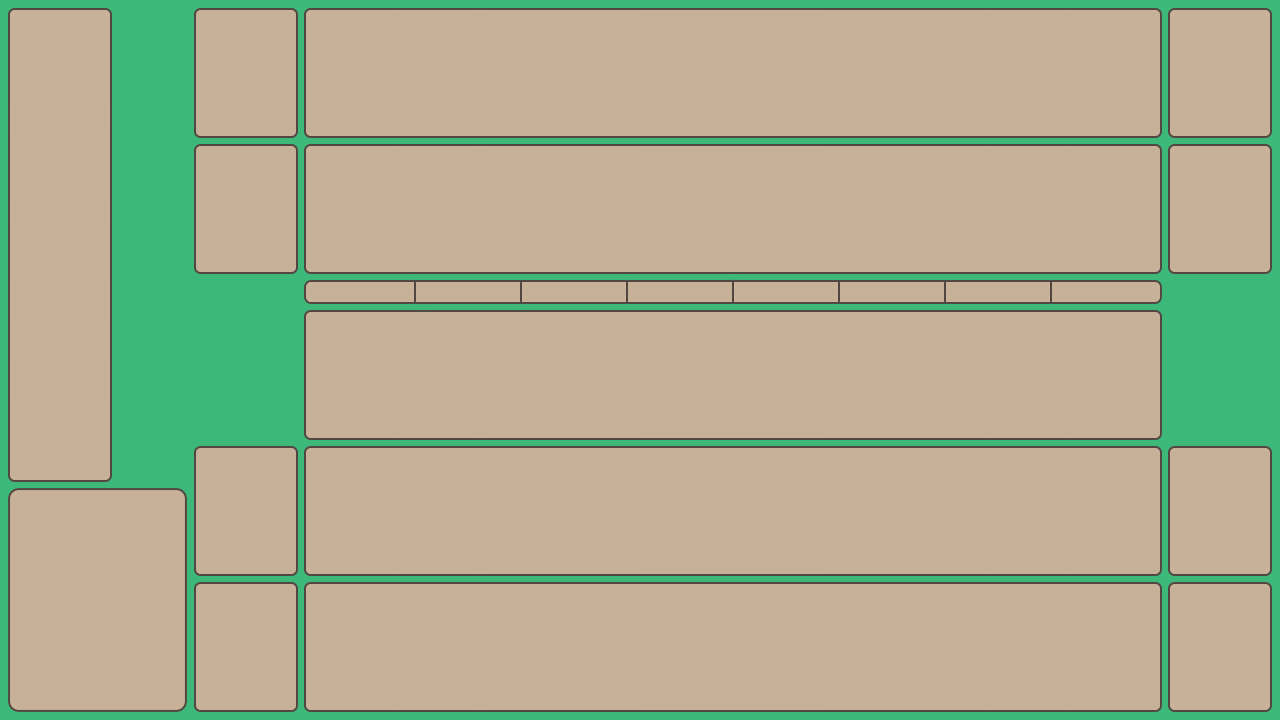
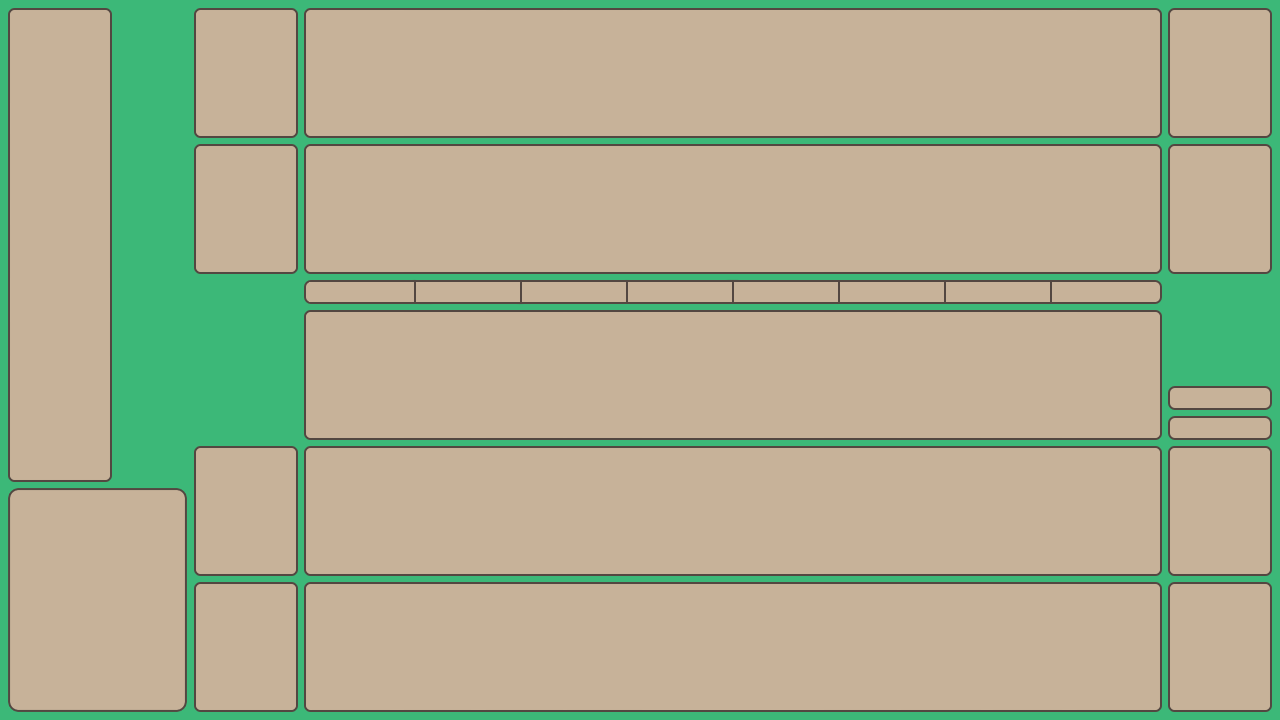
More UI work.

Changed region(s): [[0.9062, 0.5194, 1.0, 0.6111]]

diff --git a/WizardWars/UI/Controls/TextBox.cs b/WizardWars/UI/Controls/TextBox.cs
@@ -1,6 +1,4 @@
-using System;
-using System.Text;
-using System.Drawing;
+using System.Drawing;
 using OpenTK;
 using OpenTK.Graphics;
 using Minalear;
@@ -11,18 +9,20 @@ namespace WizardWars.UI.Controls
     {
         private string text;
         
-        private Texture2D texture;
-        private Font font;
+        protected Texture2D texture;
+        protected Font font;
+        protected Color4 textColor;
 
         public TextBox(Control parent, string text)
             : base(parent)
         {
             this.text = text;
+            textColor = Color4.Black;
         }
 
         public override void Draw(GameTime gameTime, TextureRenderer renderer)
         {
-            renderer.Draw(texture, Position, Vector2.One, Color4.Black);
+            renderer.Draw(texture, Position, Size, textColor);
         }
 
         public override void LoadContent()
@@ -42,7 +42,7 @@ namespace WizardWars.UI.Controls
             initGLTexture();
         }
 
-        private void initGLTexture()
+        protected void initGLTexture()
         {
             Size size = calculateTextSize();
             Bitmap bmp = new Bitmap(size.Width, size.Height);
@@ -52,17 +52,26 @@ namespace WizardWars.UI.Controls
             this.Size = new Vector2(size.Width, size.Height);
 
             graphics.Clear(Color.Transparent);
-            graphics.DrawString(text, font, Brushes.Black, 0f, 0f);
+            graphics.DrawString(text, font, Brushes.White, 0f, 0f);
 
             System.Drawing.Imaging.BitmapData data = bmp.LockBits(
                 new Rectangle(0, 0, bmp.Width, bmp.Height),
                 System.Drawing.Imaging.ImageLockMode.ReadOnly,
                 System.Drawing.Imaging.PixelFormat.Format32bppArgb);
 
-            if (texture != null)
+            if (texture == null)
+            {
+                texture = new Texture2D(bmp.Width, bmp.Height, data.Scan0);
+            }
+            else if (texture.Width != bmp.Width || texture.Height != bmp.Height)
+            {
                 texture.Dispose();
-
-            texture = new Texture2D(bmp.Width, bmp.Height, data.Scan0);
+                texture = new Texture2D(bmp.Width, bmp.Height, data.Scan0);
+            }
+            else
+            {
+                texture.UpdateTexture(data.Scan0);
+            }
 
             bmp.UnlockBits(data);
 

diff --git a/WizardWars/Core/MainGame.cs b/WizardWars/Core/MainGame.cs
@@ -24,21 +24,17 @@ namespace WizardWars.Core
         {
             Window.WindowBorder = WindowBorder.Fixed;
 
-            Window.MouseMove += (sender, e) => screen.MouseMove(e);
-            Window.MouseUp += (sender, e) => screen.MouseUp(e);
-            Window.MouseDown += (sender, e) => screen.MouseDown(e);
+            Window.MouseMove += (sender, e) => duelScreen.MouseMove(e);
+            Window.MouseUp += (sender, e) => duelScreen.MouseUp(e);
+            Window.MouseDown += (sender, e) => duelScreen.MouseDown(e);
         }
 
         public override void Initialize()
         {
             gameState = new GameState();
-            screen = new Screen(this);
-
             duelScreen = new Duel(this, gameState);
 
-            playerOneField = new CardGroup(screen, new Vector2(204, 348), new Vector2(945, 114), gameState.PlayerOne.Field);
-            playerOneElysium = new CardGroup(screen, new Vector2(204, 472), new Vector2(945, 114), gameState.PlayerOne.Elysium);
-            playerOneHand = new CardGroup(screen, new Vector2(204, 596), new Vector2(945, 114), gameState.PlayerOne.Hand);
+            return;
 
             playerOneHand.CardSelected += (sender, e) =>
             {
@@ -104,8 +100,7 @@ namespace WizardWars.Core
             gameState.AllCards.AddRange(deckList);
             gameState.PlayerOne.Deck.AddCards(deckList, Location.Random);
             gameState.PlayerTwo.Deck.AddCards(oppoList, Location.Random);
-
-            screen.LoadContent();
+            
             duelScreen.LoadContent();
 
             gameState.StartGame();

diff --git a/WizardWars/UI/Controls/Button.cs b/WizardWars/UI/Controls/Button.cs
@@ -10,12 +10,34 @@ namespace WizardWars.UI.Controls
 {
     public class Button : TextBox
     {
-        public Button(Control parent, string text)
-            : base(parent, text) { }
+        public Color4 TextColorNormal { get; set; }
+        public Color4 TextColorHovered { get; set; }
 
+        public Button(Control parent, string text)
+            : base(parent, text)
+        {
+            TextColorNormal = Color4.Black;
+            TextColorHovered = Color4.White;
+        }
+
+        public override void Draw(GameTime gameTime, TextureRenderer renderer)
+        {
+            renderer.Draw(texture, Position, 1f, textColor);
+        }
         public override void MouseUp(MouseButtonEventArgs e)
         {
             Click?.Invoke(this, e);
+        }
+
+        public override void MouseEnter(MouseMoveEventArgs e)
+        {
+            textColor = TextColorHovered;
+            base.MouseEnter(e);
+        }
+        public override void MouseLeave(MouseMoveEventArgs e)
+        {
+            textColor = TextColorNormal;
+            base.MouseLeave(e);
         }
 
         public event ButtonPressEvent Click;

diff --git a/WizardWars/UI/Screens/Duel.cs b/WizardWars/UI/Screens/Duel.cs
@@ -28,6 +28,10 @@ namespace WizardWars.UI.Screens
 
         private Controls.Single playerTwoHero;
 
+        //Other
+        private Button continueButton;
+        private Button endTurnButton;
+
         public Duel(Game game, GameState gameState) : base(game)
         {
             this.gameState = gameState; 
@@ -58,6 +62,13 @@ namespace WizardWars.UI.Screens
 
             playerTwoElysium = new CardGroup(this, new Vector2(306, 10), zoneSize, gameState.PlayerTwo.Elysium);
             playerTwoBattlefield = new CardGroup(this, new Vector2(306, 146), zoneSize, gameState.PlayerTwo.Field);
+
+            /* CONTINUE */
+            continueButton = new Button(this, "Continue");
+            continueButton.Position = new Vector2(1170, 388);
+
+            endTurnButton = new Button(this, "End Turn");
+            endTurnButton.Position = new Vector2(1170, 418);
         }
 
         public override void LoadContent()

diff --git a/WizardWars/UI/Controls/Display.cs b/WizardWars/UI/Controls/Display.cs
@@ -66,7 +66,7 @@ namespace WizardWars.UI.Controls
             this.Size = new Vector2(size.Width, size.Height);
 
             graphics.Clear(Color.FromArgb(125, 25, 25, 25));
-            graphics.DrawString(text, font, Brushes.Yellow, 0f, 0f);
+            graphics.DrawString(text, font, Brushes.WhiteSmoke, 0f, 0f);
 
             System.Drawing.Imaging.BitmapData data = bmp.LockBits(
                 new Rectangle(0, 0, bmp.Width, bmp.Height),

diff --git a/WizardWars/UI/Controls/CardGroup.cs b/WizardWars/UI/Controls/CardGroup.cs
@@ -119,7 +119,7 @@ namespace WizardWars.UI.Controls
         private Single selectedCard;
         private bool markedForUpdate = false;
 
-        private const float MAX_SPACING = 120f;
+        private const float MAX_SPACING = 105f;
     }
 
     public class CardSelectionArgs : EventArgs
